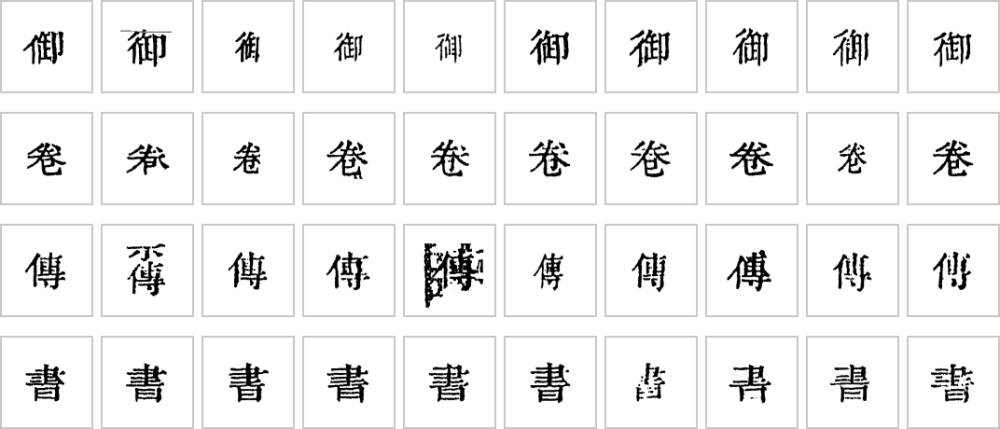
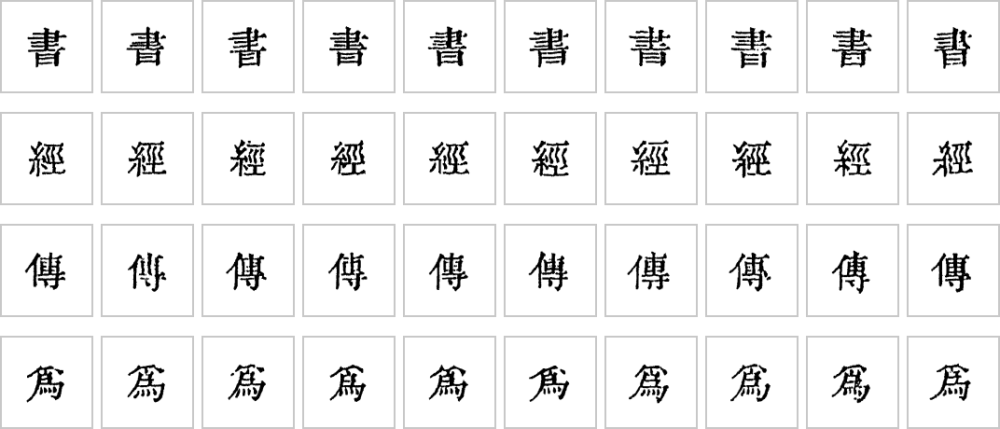
Wiki：流程图、印章例图、折线界行、YOLO 对照、刻例与放行例页 (#926)
* Wiki：流程图改成从上往下、字放大；印章页例图换成真有大印的 vol46 第 101 页

vol46 第 106 页其实没有印，是 seal_detect 误报（得分 24，真印都在 35 以上），
Step3 页同一图的说明也去掉「大印底下」。

Claude-Session: https://claude.ai/code/session_01LiMGSfwTEctbuxXBj9ktew

* Wiki：Step1 加折线界行例图、Step3 加和 YOLO 对照一节、5-a 换干净刻例、Step6–7 换切分干净的例页

- 出图脚本加 chord（界行两端直连）、yolo（yolo-tool 原生字框，--yolo 给模型目录）、tight 图层，
  vline 类图（界行附近竖条横向放大看弯），glyphs 默认挑不贴边、不压线、高宽墨量接近中位的刻例。
- Step6–7 例页从 vol04 第 65 页换到第 60 页：65 页 Step1 界行折线拟歪，格骑在两字中间（已交切分修）。

Claude-Session: https://claude.ai/code/session_01LiMGSfwTEctbuxXBj9ktew

---------

diff --git a/wiki/tools/make_shots.py b/wiki/tools/make_shots.py
@@ -11,6 +11,9 @@
     guji products pack fetch vol04 -w <殿本工作区>
     # 2. 出图（--ws 书ID=工作区，可多个；--only 只出某几张）
     python wiki/tools/make_shots.py --ws 96mid1ogzk=<殿本工作区> [--only step1-border]
+    # 带 yolo 图层的图（Step3「和 YOLO 对比」）还要 yolo-tool 的模型：
+    #   git clone --depth 1 https://github.com/open-guji/yolo_tool ../yolo_tool
+    #   python wiki/tools/make_shots.py ... --yolo ../yolo_tool/model
 
 出图只读产物，不改工作区；字块、列图缺缓存时会按 cv 的规则现场重建（写进工作区 cache/）。
 图里不写中文字（图注写在 Wiki 正文里），只有列号这类 ASCII 标记。
@@ -46,6 +49,8 @@ C = {
     "auto": (40, 160, 40),       # 自动放行：绿
     "human": (200, 120, 30),     # 人裁过：蓝
     "review": (40, 40, 220),     # 落人审：红
+    "chord": (210, 180, 0),      # 界行两端连成的直线（对照折线）：青
+    "yolo": (200, 90, 20),       # yolo-tool 原生单字框：蓝
 }
 COL_TINTS = [(255, 220, 180), (180, 230, 255)]  # 列带交替底色（浅蓝 / 浅橙）
 
@@ -131,6 +136,39 @@ def layer_border(bk, page, img, th):
         cv2.line(img, (0, y), (W - 1, y), C["head"], th)
 
 
+def layer_chord(bk, page, img, th):
+    """每条界行只取上下两端连一条直线：和折线对照，看中段弯了多少。"""
+    H, W = img.shape[:2]
+    bd = bk.prod("border_detect", page)["borders"]
+    ys = (bd["top"]["y_at_right"], bd["bottom"]["y_at_right"])
+    for v in bd["verticals"]:
+        p0, p1 = [(tl(line_x(v, y), W), int(round(y))) for y in ys]
+        cv2.line(img, p0, p1, C["chord"], max(1, th - 1), cv2.LINE_AA)
+
+
+YOLO_MODEL: str | None = None
+_YOLO = {}
+
+
+def yolo_chars(bk, page):
+    """yolo-tool 原生两段模型（版面 → 单字）在原图上的单字框，左上原点；要 --yolo 给模型目录。"""
+    key = (str(bk.ws), bk.book, page)
+    if key not in _YOLO:
+        if not YOLO_MODEL:
+            raise SystemExit("yolo 图层要 --yolo <yolo_tool 的 model/ 目录>")
+        from open_guji_cv.books.siku_zongmu.yolo_tool_infer import YoloTool
+        if "tool" not in _YOLO:
+            _YOLO["tool"] = YoloTool(YOLO_MODEL)
+        _, chars = _YOLO["tool"].infer(bk.raw(page))
+        _YOLO[key] = [b for b in chars if b.cls != "ear"]
+    return _YOLO[key]
+
+
+def layer_yolo(bk, page, img, th):
+    for b in yolo_chars(bk, page):
+        cv2.rectangle(img, (int(b.x0), int(b.y0)), (int(b.x1), int(b.y1)), C["yolo"], th)
+
+
 def layer_columns(bk, page, img, th):
     H, W = img.shape[:2]
     cols = bk.prod("column_warp", page)["column_windows"]["columns"]
@@ -183,6 +221,14 @@ def layer_shrink(bk, page, img, th):
     for c in _chars(bk, page):
         p0, p1 = _rect(c, W)
         cv2.rectangle(img, p0, p1, C["flag"] if c["flags"] else C["char"], th)
+
+
+def layer_tight(bk, page, img, th):
+    """Step4 紧框，一律绿色（和 YOLO 字框对照时用，不按 flag 标红）。"""
+    W = img.shape[1]
+    for c in _chars(bk, page):
+        p0, p1 = _rect(c, W)
+        cv2.rectangle(img, p0, p1, C["char"], th)
 
 
 def layer_seal(bk, page, img, th):
@@ -247,7 +293,8 @@ def layer_ocr(bk, page, img, th):
 
 LAYERS = {"border": layer_border, "columns": layer_columns, "cells": layer_cells,
           "shrink": layer_shrink, "seal": layer_seal, "admit": layer_admit,
-          "free": layer_free, "ocr": layer_ocr}
+          "free": layer_free, "ocr": layer_ocr, "chord": layer_chord, "yolo": layer_yolo,
+          "tight": layer_tight}
 
 
 # ---------------------------------------------------------------- 组图
@@ -362,8 +409,32 @@ def cell_with_tight(bk, page, cid, pad=6):
     return img
 
 
-def glyph_examples(ws_data: Path, char: str, n: int):
-    """字形库里某字的刻例图块（数据目录 output/glyph_store/patches）。"""
+def _patch_stats(im):
+    """图块的墨迹统计：外接框高宽、墨占比、贴边墨（被邻字、界行、印压进来的迹象）、碎块数。"""
+    g = cv2.cvtColor(im, cv2.COLOR_BGR2GRAY) if im.ndim == 3 else im
+    m = (g < 128).astype(np.uint8)
+    if not m.any():
+        return None
+    ys, xs = np.nonzero(m)
+    edge = np.concatenate([m[:3].ravel(), m[-3:].ravel(), m[:, :3].ravel(), m[:, -3:].ravel()]).mean()
+    n, _, st, _ = cv2.connectedComponentsWithStats(m, connectivity=8)
+    specks = int((st[1:, cv2.CC_STAT_AREA] < 6).sum()) if n > 1 else 0
+    # 界行、框线残段：横向或竖向贯穿过半个图块的长直墨线
+    H, W = m.shape
+    rows = max((np.max(np.diff(np.flatnonzero(np.diff(np.r_[0, r, 0])))[::2], initial=0)
+                for r in m if r.any()), default=0)
+    cols = max((np.max(np.diff(np.flatnonzero(np.diff(np.r_[0, c, 0])))[::2], initial=0)
+                for c in m.T if c.any()), default=0)
+    line = float(rows > 0.6 * W) + float(cols > 0.85 * H)
+    return dict(h=ys.max() - ys.min() + 1, w=xs.max() - xs.min() + 1, ink=m.mean(), edge=edge,
+                specks=specks, line=line)
+
+
+def glyph_examples(ws_data: Path, char: str, n: int, clean: bool = True):
+    """字形库里某字的刻例图块（数据目录 output/glyph_store/patches）。
+
+    `clean`：挑干净的——不贴边（没被邻字、界行、印压进来）、碎点少、墨迹高宽和墨量都接近本字中位，
+    再按册页均匀取 n 个，免得 Wiki 上看着像切坏了。不挑就按库里顺序取前 n 个。"""
     gs = ws_data / "output" / "glyph_store"
     ids = []
     with open(gs / "exemplars.jsonl", encoding="utf-8") as f:
@@ -371,18 +442,34 @@ def glyph_examples(ws_data: Path, char: str, n: int):
             r = json.loads(line)
             if r["char"] == char:
                 ids.append(r["instance_id"])
-    out = []
+    cands = []
     for iid in ids:
         # 图块文件名两种写法都有：冒号换成 _（多数）或 ~（bare~ 那批）
         p = next((q for q in (gs / "patches" / (iid.replace(":", s) + ".png") for s in ("_", "~"))
                   if q.exists()), None)
-        if p is not None:
-            im = cv2.imread(str(p))
-            if im is not None:
-                out.append(im)
-        if len(out) >= n:
+        if p is None:
+            continue
+        im = cv2.imread(str(p))
+        if im is None:
+            continue
+        cands.append((iid, im))
+        if not clean and len(cands) >= n:
             break
-    return out
+    if not clean:
+        return [im for _, im in cands]
+    st = [(iid, im, _patch_stats(im)) for iid, im in cands]
+    st = [t for t in st if t[2]]
+    if not st:
+        return []
+    med = {k: float(np.median([t[2][k] for t in st])) for k in ("h", "w", "ink")}
+
+    def bad(s):
+        return (s["edge"] * 50 + s["specks"] * 0.3 + s["line"] * 5
+                + sum(abs(s[k] / med[k] - 1) for k in ("h", "w", "ink")))
+    good = sorted(st, key=lambda t: bad(t[2]))[:max(n * 3, n)]
+    good.sort(key=lambda t: t[0])                      # 按册页排，均匀抽 n 个
+    step = len(good) / n if len(good) > n else 1
+    return [good[int(i * step)][1] for i in range(min(n, len(good)))]
 
 
 def frame(img, color=(200, 200, 200), t=2):
@@ -412,6 +499,21 @@ def render(shot: dict, books: dict, data_dirs: dict) -> np.ndarray:
         return vstack([hstack(views[i:i + n], gap=gap) for i in range(0, len(views), n)], gap=gap)
     if kind == "column":
         return column_pair(bk(), shot["page"], shot["col"])
+    if kind == "vline":        # 一条界行附近的竖条，横向放大 xscale 倍看弯：每幅一组图层
+        b, page = bk(), shot["page"]
+        W = b.raw(page).shape[1]
+        bd = b.prod("border_detect", page)["borders"]
+        v = bd["verticals"][shot["line"]]
+        ys = range(int(bd["top"]["y_at_right"]) - 30, int(bd["bottom"]["y_at_right"]) + 30)
+        xs = [tl(line_x(v, y), W) for y in ys]
+        hw = shot.get("half", 40)
+        x0, x1 = max(0, min(xs) - hw), min(W, max(xs) + hw)
+        sx = shot.get("xscale", 3)
+        views = []
+        for p in shot["panels"]:
+            img = page_view(b, page, p.get("layers", []), th=shot.get("th", 1))[ys[0]:ys[-1], x0:x1]
+            views.append(cv2.resize(img, (img.shape[1] * sx, img.shape[0]), interpolation=cv2.INTER_NEAREST))
+        return hstack(views, gap=shot.get("gap", 24))
     if kind == "cells":        # 几格：每格「Step3 格 | Step4 紧框」或单一种
         b = bk()
         rows = []
@@ -452,7 +554,10 @@ def main(argv=None) -> int:
                     help="书ID=中心库数据目录（$GUJI_DATA_HOME/<分支>/<ws id>），glyphs 类图要")
     ap.add_argument("--only", action="append", default=[], help="只出这几张（id 前缀）")
     ap.add_argument("--spec", default=str(HERE / "shots.yaml"))
+    ap.add_argument("--yolo", help="yolo-tool 仓的 model/ 目录（内含 type/、slide/ 的 best.onnx），yolo 图层要；装 .[yolo]")
     a = ap.parse_args(argv)
+    global YOLO_MODEL
+    YOLO_MODEL = a.yolo
     for kv in a.ws:
         k, v = kv.split("=", 1); WS[k] = v
     data_dirs = dict(kv.split("=", 1) for kv in a.data)

diff --git a/wiki/Step3-逐字切分.md b/wiki/Step3-逐字切分.md
@@ -19,11 +19,52 @@
 
 *vol16 第 6 页。紫框是夹注的右行（`sub=a`），橙框是左行（`sub=b`），绿框是正文大字。*
 
-## 难例：大印下、小注挤在一起
+## 难例：双行小注长短不齐
 
-<img src="images/step3-crowd-v46p106.png" width="320" alt="vol46 第 106 页：大印下的夹注列">
+<img src="images/step3-crowd-v46p106.png" width="320" alt="vol46 第 106 页：夹注列">
 
-*vol46 第 106 页第 4 列，在大印底下：「聖學入門書」五个大字之后接双行小注「巡撫採進本／無卷數　江西」，两行字数不一样多，左行比右行短，空出的位置不切格。*
+*vol46 第 106 页第 4 列：「聖學入門書」五个大字之后接双行小注「巡撫採進本／無卷數　江西」，两行字数不一样多，左行比右行短，空出的位置不切格。*
+
+## 和 YOLO 模型对照
+
+切分有一个外部参照：[yolo-tool](https://github.com/open-guji/yolo_tool)。它用两段 YOLOv8 模型来切：先找版面框，再在框里找单字框，是另一套完全独立的做法。cv 在 `books/siku_zongmu/yolo_tool_infer.py` 里复刻了它的 ONNX 推理（只要 onnxruntime，装 `.[yolo]`），同一页图可以两边各切一遍，逐框比。
+
+**同一页上比一比。** 下面每组图，左边绿框是我们的 Step4 紧框，右边蓝框是 yolo-tool 原生输出（2026-11-03 用现行模型重跑）。
+
+<img src="images/step3-yolo-v04p96.png" width="640" alt="vol04 第 96 页：我们的字框与 YOLO 字框">
+
+*vol04 第 96 页右上。正文字两边几乎一一对上。两处口径不同：「一」我们只框墨迹，是扁扁一条，YOLO 框整个字格；YOLO 还常在列首空白处多出一个空框。*
+
+<img src="images/step3-yolo-v04p127.png" width="640" alt="vol04 第 127 页：卷首大印处的 YOLO 碎框">
+
+*vol04 第 127 页（卷首）。大印扫成黑白后是一片麻点，YOLO 在上面打出几十个碎框，我们这边有印章定位兜着，印里不出字框。*
+
+**整册的数**（vol04 全册 217 页，同一份图）：
+
+| | 框数 | 说明 |
+|---|---:|---|
+| 我们的字框，YOLO 有对应框（IoU ≥ 0.3） | 34,012（98.95%） | |
+| 落在 YOLO 某个框里，但重合不到 0.3 | 283（0.8%） | 几乎全是「一」，是上面说的框口径不同，不算分歧 |
+| YOLO 没有框 | 77（0.2%） | 多在列首抬头位（「國朝」的「國」、「欽定」「聖祖」），YOLO 漏掉了 |
+| YOLO 的框，我们这边什么都没有 | 1,741 | 印上的麻点、列首列尾空框、版心 |
+| YOLO 一个框盖住我们两格 | 7 | 3 处在 vol04 第 65 页，是我们 Step1 界行拟歪、一格切在两字中间（已交给切分修），YOLO 这里是对的 |
+
+10-19 在 vol04/05 的 100 页上做过一次逐列字数的正面对比（[doc/research/yolo_release_comparison.md](https://github.com/open-guji/open-guji-cv/blob/dev/doc/research/yolo_release_comparison.md)）。逐列字数全对率我们 96.6%，YOLO 原生 64.4%，加轻清理后 83.6%；单字框的查准、查全两边打平。两边的错几乎不重叠：我们会把横画字拦腰切开（「三」切成「一」＋「二」），YOLO 从不这样，但它会漏扁字、疏字，也会把版心当正文列。
+
+**在什么情况下用它。** YOLO 不替代我们的切分，只在两处出场：
+
+1. **当评测金标的一方。** 殿本 `column_counts` 评测的金标，是 daizhige 逐列本和一份「YOLO 粗切加人工修框」的成品各数一遍，两边字数一致的列才收（vol01–10 共 14,926 列）。见 [实验与评测](实验与评测#评测guji-eval)。
+2. **当第二意见：YOLO 并格闸**（`row_segment.yolo_merge`，缺省关）。相邻两格落进同一个正常高的 YOLO 字框，就按少一格重切这一列，重切后对得上才采用。它只治「一个字切成两格」。
+
+Step3 一共有三个结构先验开关，按这部书的整理本是什么样子来选：
+
+| 整理本 | 开哪个 | 殿本 |
+|---|---|---|
+| 逐列、带格位（每列从第几格起、哪格空、夹注在哪） | 逐列格位约束 `layout_prior` | 开着（daizhige 逐列本） |
+| 逐列，但只知道每列几个字 | 逐列字数先验 `colgold_prior` | 不开 |
+| 没有整理本 | YOLO 并格闸 `yolo_merge` | 不开 |
+
+殿本有逐列格位，开了 `layout_prior` 后已经没有列可让 YOLO 并格闸动，所以殿本不开它；它是留给没有整理本的书的。在殿本测试页上，它把逐列全对率从 97.0% 提到 97.8%，没有改坏的；在北行日錄 54 页上没有误并。新书要用，先当「疑似多切 → 送人看」，在本书上量过误并再改成自动并。选法的依据见 [doc/segmentation_v2_pipeline.md](https://github.com/open-guji/open-guji-cv/blob/dev/doc/segmentation_v2_pipeline.md)「Step3 结构先验：三个开关的名字与选法」。
 
 ## 怎么验
 

diff --git a/wiki/Step1-边框与界行.md b/wiki/Step1-边框与界行.md
@@ -18,6 +18,22 @@
 
 *第 5 列「御纂周易折中」比正文高出一格，版框在这里往上凸出一个小框。蓝线是正文的上框，橙线是抬头框的上沿。*
 
+## 折线：中段弯的界行
+
+刻版、印刷、纸张收缩都会让界行不直。直线只能对上两头，中段就偏到字上，后面拉直列、切格都跟着歪。这时界行改拟成**三段折线**：两个折点 `y1`、`y2` 把线分成三段，各有斜率（`slope`、`k2`、`k3`）。
+
+<img src="images/step1-polyline-v04p146.png" width="420" alt="vol04 第 146 页第 5 条界行：直线与折线">
+
+*vol04 第 146 页第 5 条界行（右起），只截了界行左右各 30 像素，**横向放大 3 倍**好看出弯。左：原图，界行中段向左鼓出约 12 像素。中：青线把上下两端直接连起来，中段离开了界行。右：红线是 Step1 拟出的三段折线，从头到尾贴着界行走。在这条线上量，折线压着墨的点占 92%，直线只有 19%。*
+
+怎么定（`seg/polyline.py`）：
+
+1. 沿每条界行逐行量墨偏离直线多少，得出这一页的弯度。弯度中位 ≥ 7 像素，或任一条线 ≥ 24 像素，整页才改拟折线；其余的页仍用直线。
+2. 折点的高度固定在版框内 1/3、2/3 处（这一页是第 685、1280 行），每个折点只在直线估计左右 40 像素内找位置，跳不到隔壁界行去。
+3. 两道保险：相邻两条折线之间的列宽沿高度变化超过 25% 就退回直线；折线贴线的得分不比直线高，也退回直线。
+
+**拟错的时候**：界行很淡、字的竖笔又正好压在线上时，折线偶尔会被字「吸」过去，中段斜穿过正文（例如 vol04 第 65 页，2026-11 已交给切分修）。这种页 Step3 会把一格切在两个字中间，最后在 Step7 落人审，不会被自动放行。
+
 ## 难例
 
 **界行淡到几乎看不见。** vol40 第 34 页（新图源）界行很淡，中段还有字的竖笔压着，旧版把折点吸到了字上。现在照样能把九条界行都找准：

diff --git a/wiki/Step6-7-定字与放行.md b/wiki/Step6-7-定字与放行.md
@@ -1,8 +1,8 @@
 # Step6–7 定字与放行
 
-<img src="images/step7-admit-v04p65.png" width="480" alt="vol04 第 65 页：放行结果">
+<img src="images/step7-admit-v04p60.png" width="480" alt="vol04 第 60 页：放行结果">
 
-*vol04 第 65 页的放行结果。绿底：自动放行；蓝底：人审定过；红框红底：落人审。这一页落审的 9 格多数是**切错的格**：一格骑在两个字中间（「之論」「何嘗」），字形对不上任何字，整理本也对不齐，所以放不了。*
+*vol04 第 60 页的放行结果。绿底：自动放行；蓝底：人审定过（「愼」「變」）；红框红底：落人审。这一页 159 格只落了 2 格：第 2 列的「曰」（「日」「曰」形近，上下文分不出）和第 9 列的「圖」（形近字组里几路判得不一致）。落人审的大多是这种**形近字拿不准**，不是切坏。*
 
 ## Step6 上下文裁决（`context_decide`）
 
@@ -42,7 +42,9 @@
 
 ## 落人审的格长什么样
 
-![vol04 第 65 页落人审的 9 格（Step4 字块）](images/step7-review-cells.png)
+![vol04 落人审的 10 格（Step4 字块）](images/step7-review-cells.png)
+
+*vol04 各页落人审的格，从左到右：「曰」「己」「巳」（日曰、己已巳形近字组，组内流程弃权）、「圖」（组内几路不一致）、「眚」「彖」（库里刻例太少，cov 不到 0.99，上下文也分不出）、「揀」「奧」（整理本这里是改字段，和字形对不齐）、「䝉」（生僻字，整理本守卫不让上下文改）、最后一格是少见的切分问题：格只切到字的一角，形状像乱码（`ctx_garble_shape`），不让上下文硬改。vol04 全册落审 80 格，其中 52 格是形近字组。*
 
 每格都记着为什么放不了（产物里的 `doubts`），如：
 

diff --git a/wiki/管线全景.md b/wiki/管线全景.md
@@ -7,26 +7,27 @@
 ## 一张影印页要走哪几步
 
 ```mermaid
-flowchart LR
-  raw[影印页图] --> s0[Step0 页面预检<br/>page_survey / invert_detect]
-  s0 --> s1[Step1 边框与界行<br/>border_detect]
-  s1 --> seal[印章定位<br/>seal_detect]
-  s1 --> s2[Step2 单列拉直<br/>column_warp]
+%%{init: {"themeVariables": {"fontSize": "22px"}, "flowchart": {"nodeSpacing": 40, "rankSpacing": 45}}}%%
+flowchart TD
+  raw[影印页图] --> s0["Step0 页面预检<br/>page_survey<br/>invert_detect"]
+  s0 --> s1["Step1 边框与界行<br/>border_detect"]
+  s1 --> seal["印章定位<br/>seal_detect"]
+  s1 --> s2["Step2 单列拉直<br/>column_warp"]
   seal --> s2
-  s2 --> s3[Step3 逐字切分<br/>row_segment]
-  s3 --> s4[Step4 字框收缩<br/>cell_shrink]
-  s4 --> a[5-a 字形库匹配<br/>glyph_match]
-  s4 --> b[5-b 生僻字候选<br/>rare_candidates]
-  s4 --> d[5-d 整理本对位<br/>align_ref]
-  a --> s6[Step6 上下文<br/>context_decide]
+  s2 --> s3["Step3 逐字切分<br/>row_segment"]
+  s3 --> s4["Step4 字框收缩<br/>cell_shrink"]
+  s4 --> a["5-a 字形库匹配<br/>glyph_match"]
+  s4 --> b["5-b 生僻字候选<br/>rare_candidates"]
+  s4 --> d["5-d 整理本对位<br/>align_ref"]
+  a --> s6["Step6 上下文<br/>context_decide"]
   d --> s6
-  a --> s7[Step7 放行<br/>seed_admit]
+  a --> s7["Step7 放行<br/>seed_admit"]
   b --> s7
   d --> s7
   s6 --> s7
-  s7 --> auto[自动放行]
-  s7 --> rev[落人审]
-  rev -.人裁事件.-> s7
+  s7 --> auto([自动放行])
+  s7 --> rev([落人审])
+  rev -. 人裁事件 .-> s7
 ```
 
 - **切分线 Step0–4**：只看图，目标是每一格都切对。

diff --git a/wiki/Step5-识别三路.md b/wiki/Step5-识别三路.md
@@ -12,9 +12,9 @@ Step4 出来的每个字块，由三路各自去找证据。三路**互相独立
 
 ## 5-a 字形库匹配
 
-![字形库里「御」「卷」「傳」「書」各 10 个刻例](images/step5-glyphs.png)
+![字形库里「書」「經」「傳」「爲」各 10 个刻例](images/step5-glyphs.png)
 
-*殿本字形库里「御」「卷」「傳」「書」的刻例，都是人审确认过、按书 ID（`96mid1ogzk`）收进库的。同一个字刻出来大小、粗细、残缺各不相同，字块要和这些刻例逐一比。*
+*殿本字形库里「書」「經」「傳」「爲」的刻例，都是人审确认过、按书 ID（`96mid1ogzk`）收进库的（图里挑的是不贴邻字、没压界行的干净刻例）。同一个字刻出来大小、粗细、笔画轻重各不相同，字块要和这些刻例逐一比。*
 
 做法：字块归一化后先用 HOG 特征找最像的几个刻例，再做弹性对齐算覆盖率 `cov`，分三档——
 

diff --git a/wiki/印章.md b/wiki/印章.md
@@ -15,9 +15,9 @@
 
 ## 例子
 
-**大印下的列照样切。** vol46 第 106 页，大印盖住上半页，第 4 列还有双行小注：
+**大印下的列照样切。** vol46 第 101 页是卷九十七的卷首，一方大印盖住上半页（品红框），印下第 4 列「藤陰劄記」后面还有双行小注，照样切成左右两行小格：
 
-<img src="images/seal-v46p106.png" width="480" alt="vol46 第 106 页：大印与字格">
+<img src="images/seal-v46p101.png" width="480" alt="vol46 第 101 页：卷首大印与字格">
 
 **卷末印页的空栏。** vol21 第 225 页是卷末，正文只到「卷數皆附存目」，后面几列是一方「乾隆御覽之寶」压着的空栏。橙框是小印；红框红底是落人审的格，绿底是自动放行：
 
